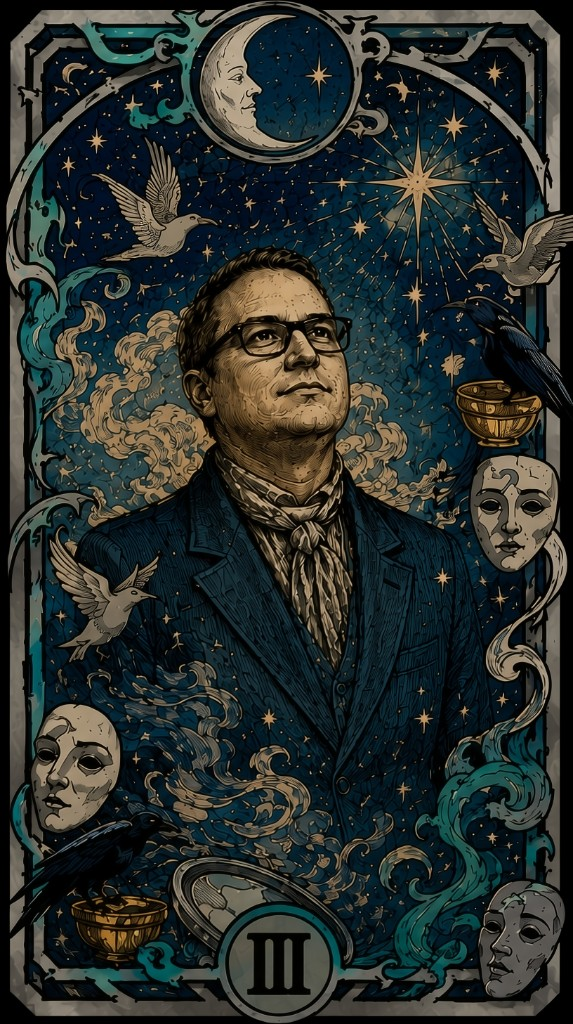
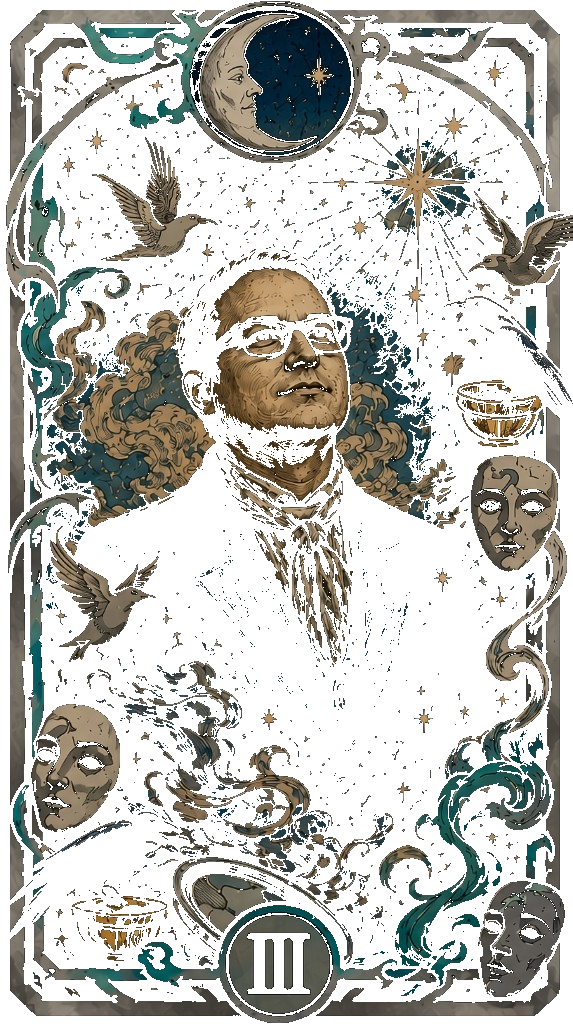
Restore transparent edges on tarot archetype card images.
The card assets were JPEGs with black letterboxing and no alpha channel.
Re-export them as true PNGs with corner flood-fill transparency, and move
drop-shadow from the link box to the image so shadows follow the card shape.

diff --git a/essays/americans-europeans-and-autism-oh-my/index.html b/essays/americans-europeans-and-autism-oh-my/index.html
@@ -898,10 +898,8 @@
             flex-shrink: 0;
             text-decoration: none;
             transform-origin: bottom center;
-            filter: drop-shadow(0 4px 10px rgba(0, 0, 0, 0.24))
-                    drop-shadow(0 2px 3px rgba(0, 0, 0, 0.16));
-            transition: transform 0.35s cubic-bezier(0.22, 1, 0.36, 1),
-                        filter 0.35s ease;
+            background: none;
+            transition: transform 0.35s cubic-bezier(0.22, 1, 0.36, 1);
             will-change: transform;
         }
         .archetype-img {
@@ -910,15 +908,20 @@
             height: auto;
             pointer-events: none;
             user-select: none;
+            filter: drop-shadow(0 4px 10px rgba(0, 0, 0, 0.24))
+                    drop-shadow(0 2px 3px rgba(0, 0, 0, 0.16));
+            transition: filter 0.35s ease;
         }
         .archetype-logic   { transform: rotate(-11deg); z-index: 1; }
         .archetype-psyche  { transform: rotate(-3deg); margin-left: -28px; width: 78px; z-index: 2; }
         .archetype-instinct { transform: rotate(9deg); margin-left: -26px; z-index: 3; }
         .archetype-card:hover {
             transform: rotate(0deg) scale(1.1) translateY(-10px);
+            z-index: 11;
+        }
+        .archetype-card:hover .archetype-img {
             filter: drop-shadow(0 10px 18px rgba(0, 0, 0, 0.3))
                     drop-shadow(0 3px 6px rgba(0, 0, 0, 0.18));
-            z-index: 11;
         }
         /* ---------- Easter egg ---------- */
 

diff --git a/essays/i-cried-at-work-i-was-also-right/index.html b/essays/i-cried-at-work-i-was-also-right/index.html
@@ -898,10 +898,8 @@
             flex-shrink: 0;
             text-decoration: none;
             transform-origin: bottom center;
-            filter: drop-shadow(0 4px 10px rgba(0, 0, 0, 0.24))
-                    drop-shadow(0 2px 3px rgba(0, 0, 0, 0.16));
-            transition: transform 0.35s cubic-bezier(0.22, 1, 0.36, 1),
-                        filter 0.35s ease;
+            background: none;
+            transition: transform 0.35s cubic-bezier(0.22, 1, 0.36, 1);
             will-change: transform;
         }
         .archetype-img {
@@ -910,15 +908,20 @@
             height: auto;
             pointer-events: none;
             user-select: none;
+            filter: drop-shadow(0 4px 10px rgba(0, 0, 0, 0.24))
+                    drop-shadow(0 2px 3px rgba(0, 0, 0, 0.16));
+            transition: filter 0.35s ease;
         }
         .archetype-logic   { transform: rotate(-11deg); z-index: 1; }
         .archetype-psyche  { transform: rotate(-3deg); margin-left: -28px; width: 78px; z-index: 2; }
         .archetype-instinct { transform: rotate(9deg); margin-left: -26px; z-index: 3; }
         .archetype-card:hover {
             transform: rotate(0deg) scale(1.1) translateY(-10px);
+            z-index: 11;
+        }
+        .archetype-card:hover .archetype-img {
             filter: drop-shadow(0 10px 18px rgba(0, 0, 0, 0.3))
                     drop-shadow(0 3px 6px rgba(0, 0, 0, 0.18));
-            z-index: 11;
         }
         /* ---------- Easter egg ---------- */
 

diff --git a/essays/ship-it/index.html b/essays/ship-it/index.html
@@ -898,10 +898,8 @@
             flex-shrink: 0;
             text-decoration: none;
             transform-origin: bottom center;
-            filter: drop-shadow(0 4px 10px rgba(0, 0, 0, 0.24))
-                    drop-shadow(0 2px 3px rgba(0, 0, 0, 0.16));
-            transition: transform 0.35s cubic-bezier(0.22, 1, 0.36, 1),
-                        filter 0.35s ease;
+            background: none;
+            transition: transform 0.35s cubic-bezier(0.22, 1, 0.36, 1);
             will-change: transform;
         }
         .archetype-img {
@@ -910,15 +908,20 @@
             height: auto;
             pointer-events: none;
             user-select: none;
+            filter: drop-shadow(0 4px 10px rgba(0, 0, 0, 0.24))
+                    drop-shadow(0 2px 3px rgba(0, 0, 0, 0.16));
+            transition: filter 0.35s ease;
         }
         .archetype-logic   { transform: rotate(-11deg); z-index: 1; }
         .archetype-psyche  { transform: rotate(-3deg); margin-left: -28px; width: 78px; z-index: 2; }
         .archetype-instinct { transform: rotate(9deg); margin-left: -26px; z-index: 3; }
         .archetype-card:hover {
             transform: rotate(0deg) scale(1.1) translateY(-10px);
+            z-index: 11;
+        }
+        .archetype-card:hover .archetype-img {
             filter: drop-shadow(0 10px 18px rgba(0, 0, 0, 0.3))
                     drop-shadow(0 3px 6px rgba(0, 0, 0, 0.18));
-            z-index: 11;
         }
         /* ---------- Easter egg ---------- */
 

diff --git a/essays/the-students-are-right/index.html b/essays/the-students-are-right/index.html
@@ -898,10 +898,8 @@
             flex-shrink: 0;
             text-decoration: none;
             transform-origin: bottom center;
-            filter: drop-shadow(0 4px 10px rgba(0, 0, 0, 0.24))
-                    drop-shadow(0 2px 3px rgba(0, 0, 0, 0.16));
-            transition: transform 0.35s cubic-bezier(0.22, 1, 0.36, 1),
-                        filter 0.35s ease;
+            background: none;
+            transition: transform 0.35s cubic-bezier(0.22, 1, 0.36, 1);
             will-change: transform;
         }
         .archetype-img {
@@ -910,15 +908,20 @@
             height: auto;
             pointer-events: none;
             user-select: none;
+            filter: drop-shadow(0 4px 10px rgba(0, 0, 0, 0.24))
+                    drop-shadow(0 2px 3px rgba(0, 0, 0, 0.16));
+            transition: filter 0.35s ease;
         }
         .archetype-logic   { transform: rotate(-11deg); z-index: 1; }
         .archetype-psyche  { transform: rotate(-3deg); margin-left: -28px; width: 78px; z-index: 2; }
         .archetype-instinct { transform: rotate(9deg); margin-left: -26px; z-index: 3; }
         .archetype-card:hover {
             transform: rotate(0deg) scale(1.1) translateY(-10px);
+            z-index: 11;
+        }
+        .archetype-card:hover .archetype-img {
             filter: drop-shadow(0 10px 18px rgba(0, 0, 0, 0.3))
                     drop-shadow(0 3px 6px rgba(0, 0, 0, 0.18));
-            z-index: 11;
         }
         /* ---------- Easter egg ---------- */
 

diff --git a/essays/you-might-be-special-but-youre-definitely-predictable/index.html b/essays/you-might-be-special-but-youre-definitely-predictable/index.html
@@ -927,10 +927,8 @@
             flex-shrink: 0;
             text-decoration: none;
             transform-origin: bottom center;
-            filter: drop-shadow(0 4px 10px rgba(0, 0, 0, 0.24))
-                    drop-shadow(0 2px 3px rgba(0, 0, 0, 0.16));
-            transition: transform 0.35s cubic-bezier(0.22, 1, 0.36, 1),
-                        filter 0.35s ease;
+            background: none;
+            transition: transform 0.35s cubic-bezier(0.22, 1, 0.36, 1);
             will-change: transform;
         }
         .archetype-img {
@@ -939,15 +937,20 @@
             height: auto;
             pointer-events: none;
             user-select: none;
+            filter: drop-shadow(0 4px 10px rgba(0, 0, 0, 0.24))
+                    drop-shadow(0 2px 3px rgba(0, 0, 0, 0.16));
+            transition: filter 0.35s ease;
         }
         .archetype-logic   { transform: rotate(-11deg); z-index: 1; }
         .archetype-psyche  { transform: rotate(-3deg); margin-left: -28px; width: 78px; z-index: 2; }
         .archetype-instinct { transform: rotate(9deg); margin-left: -26px; z-index: 3; }
         .archetype-card:hover {
             transform: rotate(0deg) scale(1.1) translateY(-10px);
+            z-index: 11;
+        }
+        .archetype-card:hover .archetype-img {
             filter: drop-shadow(0 10px 18px rgba(0, 0, 0, 0.3))
                     drop-shadow(0 3px 6px rgba(0, 0, 0, 0.18));
-            z-index: 11;
         }
         /* ---------- Easter egg ---------- */
 

diff --git a/index.html b/index.html
@@ -118,10 +118,8 @@
             flex-shrink: 0;
             text-decoration: none;
             transform-origin: bottom center;
-            filter: drop-shadow(0 4px 10px rgba(0, 0, 0, 0.24))
-                    drop-shadow(0 2px 3px rgba(0, 0, 0, 0.16));
-            transition: transform 0.35s cubic-bezier(0.22, 1, 0.36, 1),
-                        filter 0.35s ease;
+            background: none;
+            transition: transform 0.35s cubic-bezier(0.22, 1, 0.36, 1);
             will-change: transform;
         }
         .archetype-img {
@@ -130,15 +128,20 @@
             height: auto;
             pointer-events: none;
             user-select: none;
+            filter: drop-shadow(0 4px 10px rgba(0, 0, 0, 0.24))
+                    drop-shadow(0 2px 3px rgba(0, 0, 0, 0.16));
+            transition: filter 0.35s ease;
         }
         .archetype-logic   { transform: rotate(-11deg); z-index: 1; }
         .archetype-psyche  { transform: rotate(-3deg); margin-left: -28px; width: 78px; z-index: 2; }
         .archetype-instinct { transform: rotate(9deg); margin-left: -26px; z-index: 3; }
         .archetype-card:hover {
             transform: rotate(0deg) scale(1.1) translateY(-10px);
+            z-index: 11;
+        }
+        .archetype-card:hover .archetype-img {
             filter: drop-shadow(0 10px 18px rgba(0, 0, 0, 0.3))
                     drop-shadow(0 3px 6px rgba(0, 0, 0, 0.18));
-            z-index: 11;
         }
 
         .version-badge {
